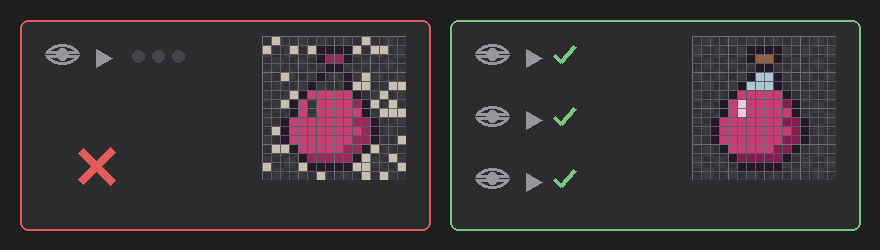
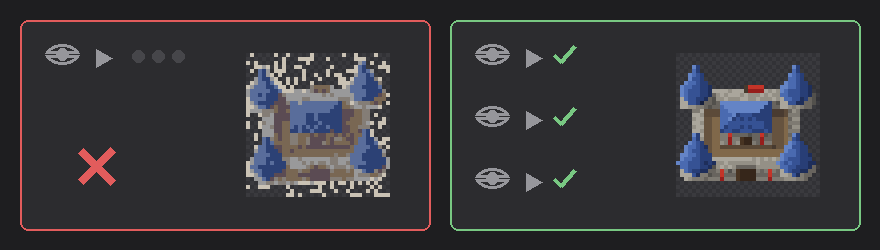
Use game sprites and God steps in images

Changed region(s): [[0.2761, 0.14, 0.4602, 0.784], [0.767, 0.14, 0.9511, 0.728]]

diff --git a/SKILL.md b/SKILL.md
@@ -1,14 +1,10 @@
 ---
 name: pixel-art-with-ai
-description: Short workflow for making clean pixel art with AI image models. Use when the user wants sprites, icons or tiles made with AI and needs them to be real pixel art (on a grid, small palette, transparent background).
+description: Short workflow for making pixel art with an AI coding assistant. Use when the user wants sprites, characters, icons or tiles drawn in code as pixel art, and the result has to match what they asked for.
 license: MIT
 ---
 
 # Pixel art with AI
-
-![Pipeline](images/pipeline.png)
-
-AI image models draw things that look like pixel art but are not. The pixels are blurry, off-grid and full of in-between colors. The work is turning that into real pixels.
 
 ## AI is not a painter
 
@@ -16,14 +12,20 @@ AI image models draw things that look like pixel art but are not. The pixels are
 
 **AI CANNOT DRAW PIXEL ART FROM SCRATCH LIKE A PAINTER. IT ONLY WRITES CODE. SO DESCRIBE WHAT YOU WANT WITH SIMPLE SHAPES: SQUARE, CIRCLE, TRIANGLE.**
 
-A house is a square with a triangle on top. A tree is a circle on a rectangle. Get the shapes right first, then ask for colors, shading and small details.
+A castle is a square with four cones on the corners and a triangle roof in the middle. Get the shapes right first, then ask for colors, shading and small details.
 
 ## Steps
 
-1. **Prompt with a fixed template and a grid.** Keep one prompt template and change only the subject. Give the model a grid reference image so it knows the target size.
-2. **Generate big.** Let the model draw at its normal resolution. Expect blur, noise and fake pixels.
-3. **Snap to the grid.** Scale down to the real size (16x16, 32x32...) with nearest-neighbor, cut the palette to a few colors, make the background transparent.
-4. **Check and fix.** Look at it at 1x and zoomed in. Remove stray pixels, fix the outline, drop anything that does not fit the size.
+![Step by step](images/god_steps.png)
+
+1. **Reference.** Collect a few real images of what you want.
+2. **Compose.** Have the AI place the parts in code at full size.
+3. **Rig.** Give moving parts simple bones so they can be posed.
+4. **Pixelate.** Bring it down to the real size with a few colors per material, flat bands and a narrow dither where two bands meet.
+5. **Animate.** Make the frames and look at them one by one.
+6. **Put it in the scene.** Check it next to everything else, at the real size.
+
+![Result](images/god.gif)
 
 ## Example: Heirs of the Valley
 
@@ -39,7 +41,7 @@ The first version next to the latest version of the game. Everything between the
 
 After every step, look at the result:
 
-- Is it on the grid, at the right size?
+- Is it at the right size, on the pixel grid?
 - Are the colors the palette you asked for?
 - Is it the thing you asked for, in the style you asked for?
 

diff --git a/README.md b/README.md
@@ -2,14 +2,16 @@
 
 # pixel-art-with-ai
 
-Claude Code skill for making pixel art with AI. It covers how to describe what you want, how to get from AI output to clean pixels, and why you have to check every step.
+Claude Code skill for making pixel art with AI. It covers how to describe what you want, the steps from reference to finished sprite, and why you have to check every step.
 
 ![Heirs of the Valley, first look vs now](images/hotv_before_after.png)
 
+![Step by step](images/god_steps.png)
+
 ## What's inside
 
-- **Describe with shapes.** AI writes code; it does not paint. A house is a square and a triangle, a tree is a circle on a rectangle.
-- **From AI output to pixel art.** Snap to the grid, cut the palette, clean up stray pixels.
+- **Describe with shapes.** AI writes code; it does not paint. A castle is a square, four cones and a triangle roof.
+- **Step by step.** Reference, compose, rig, pixelate, animate, put it in the scene.
 - **Check every step.** Look at each result before moving on, and say what is wrong when it is wrong.
 
 The full text is in [SKILL.md](SKILL.md).
